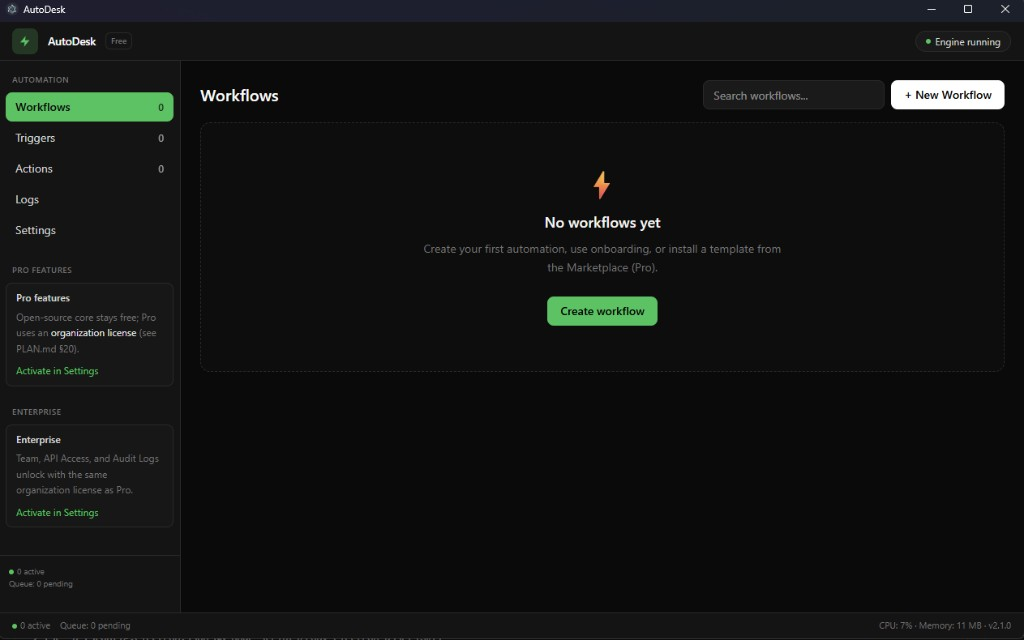
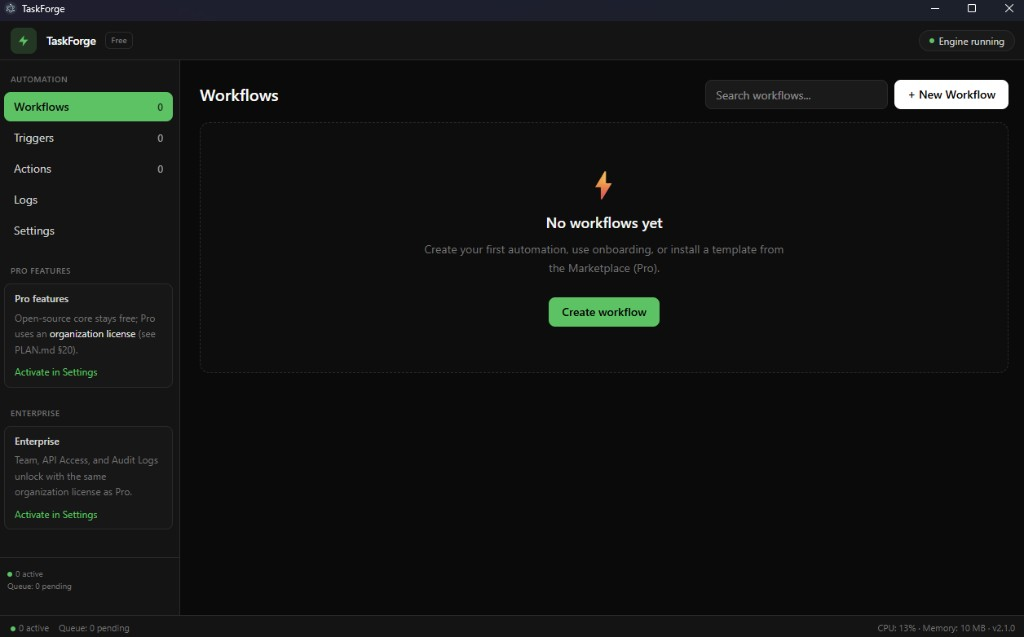
Update README.md with new app version and improved screenshot descriptions; replace binary screenshot files for better clarity.

diff --git a/README.md b/README.md
@@ -4,17 +4,19 @@ Modern desktop automation for Windows — a **Task Scheduler–style** app with 
 
 ## Screenshots
 
+TaskForge desktop app (v2.1.0).
+
 | Workflows | Triggers |
 |:---:|:---:|
-| ![Workflows — empty state and sidebar](docs/screenshots/workflows.png) | ![Triggers — Basic vs Advanced (Pro)](docs/screenshots/triggers.png) |
+| ![TaskForge — Workflows empty state and sidebar](docs/screenshots/workflows.png) | ![TaskForge — Triggers, Basic and Advanced (Pro)](docs/screenshots/triggers.png) |
 
 | Actions | Execution logs |
 |:---:|:---:|
-| ![Actions — Basic and Advanced (Pro)](docs/screenshots/actions.png) | ![Execution logs — empty state](docs/screenshots/logs.png) |
+| ![TaskForge — Actions, Basic and Advanced (Pro)](docs/screenshots/actions.png) | ![TaskForge — Execution logs empty state](docs/screenshots/logs.png) |
 
 | Settings (organization license & preferences) |
 |:---:|
-| ![Settings — organization license key](docs/screenshots/settings.png) |
+| ![TaskForge — Settings, license and preferences](docs/screenshots/settings.png) |
 
 The **Free** tier includes core automation (workflows, basic triggers/actions, logs, settings). **Pro** and **Enterprise** features (AI Assistant, Variables, Marketplace, Analytics, Team, API Access, Audit Logs, advanced triggers/actions) require an **organization license key**; see [`PLAN.md`](PLAN.md) §20 for the entitlement and optional online validation design.
 
